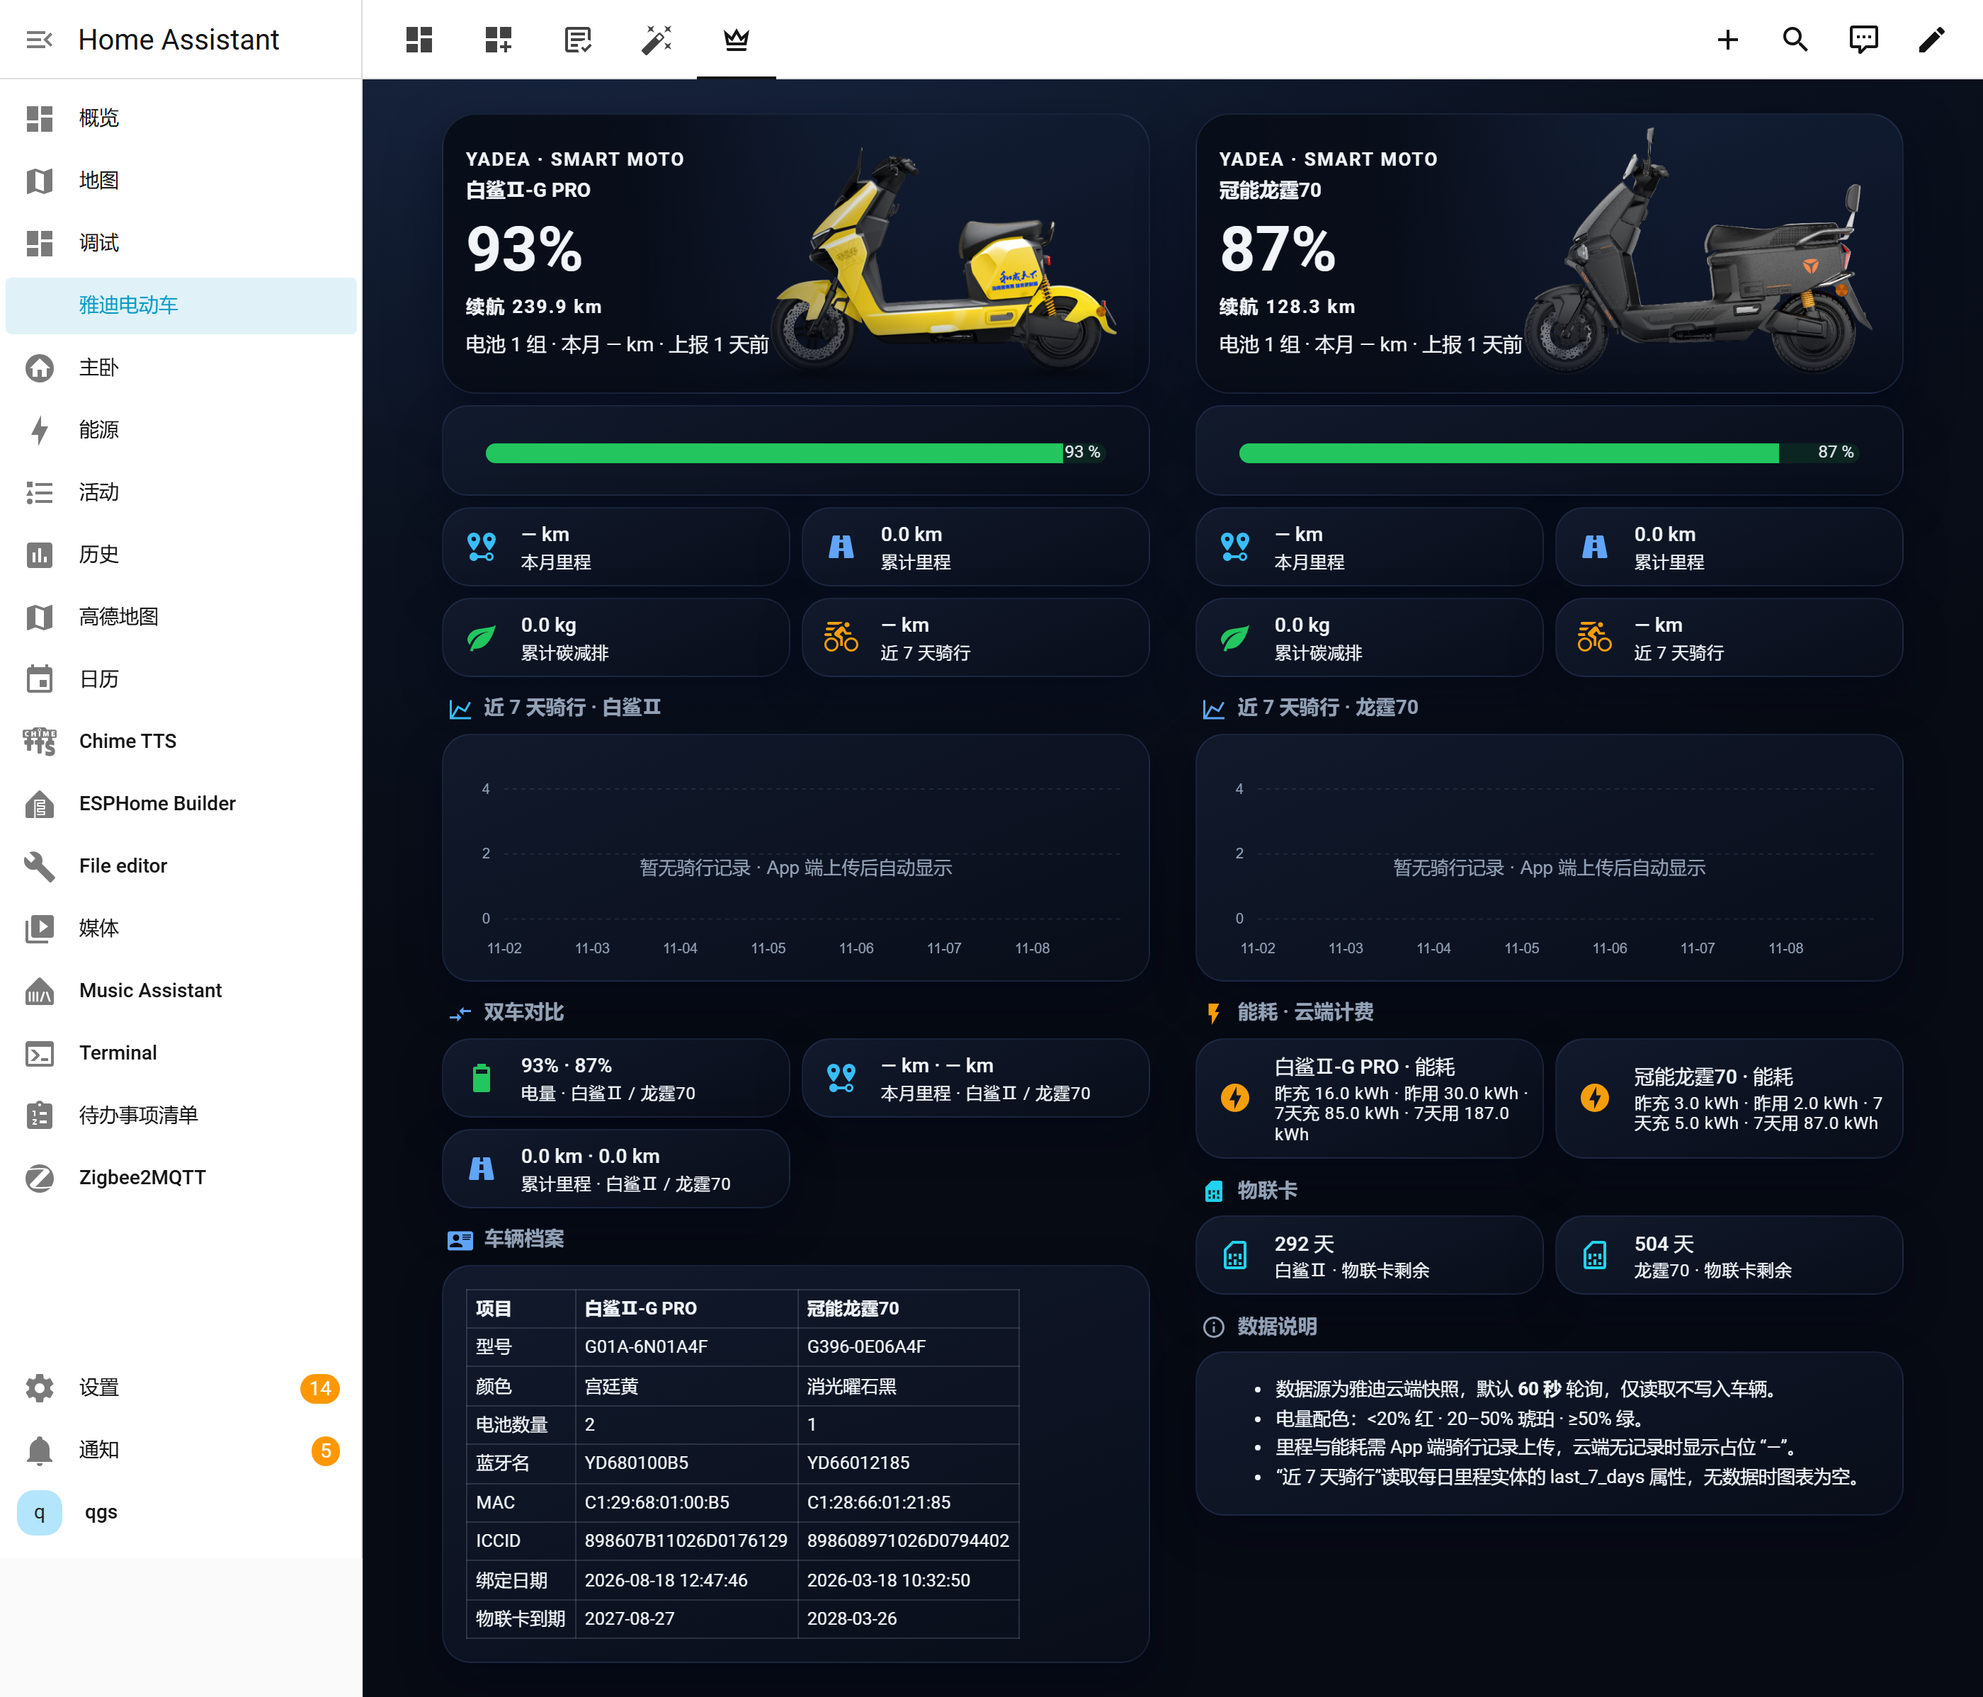
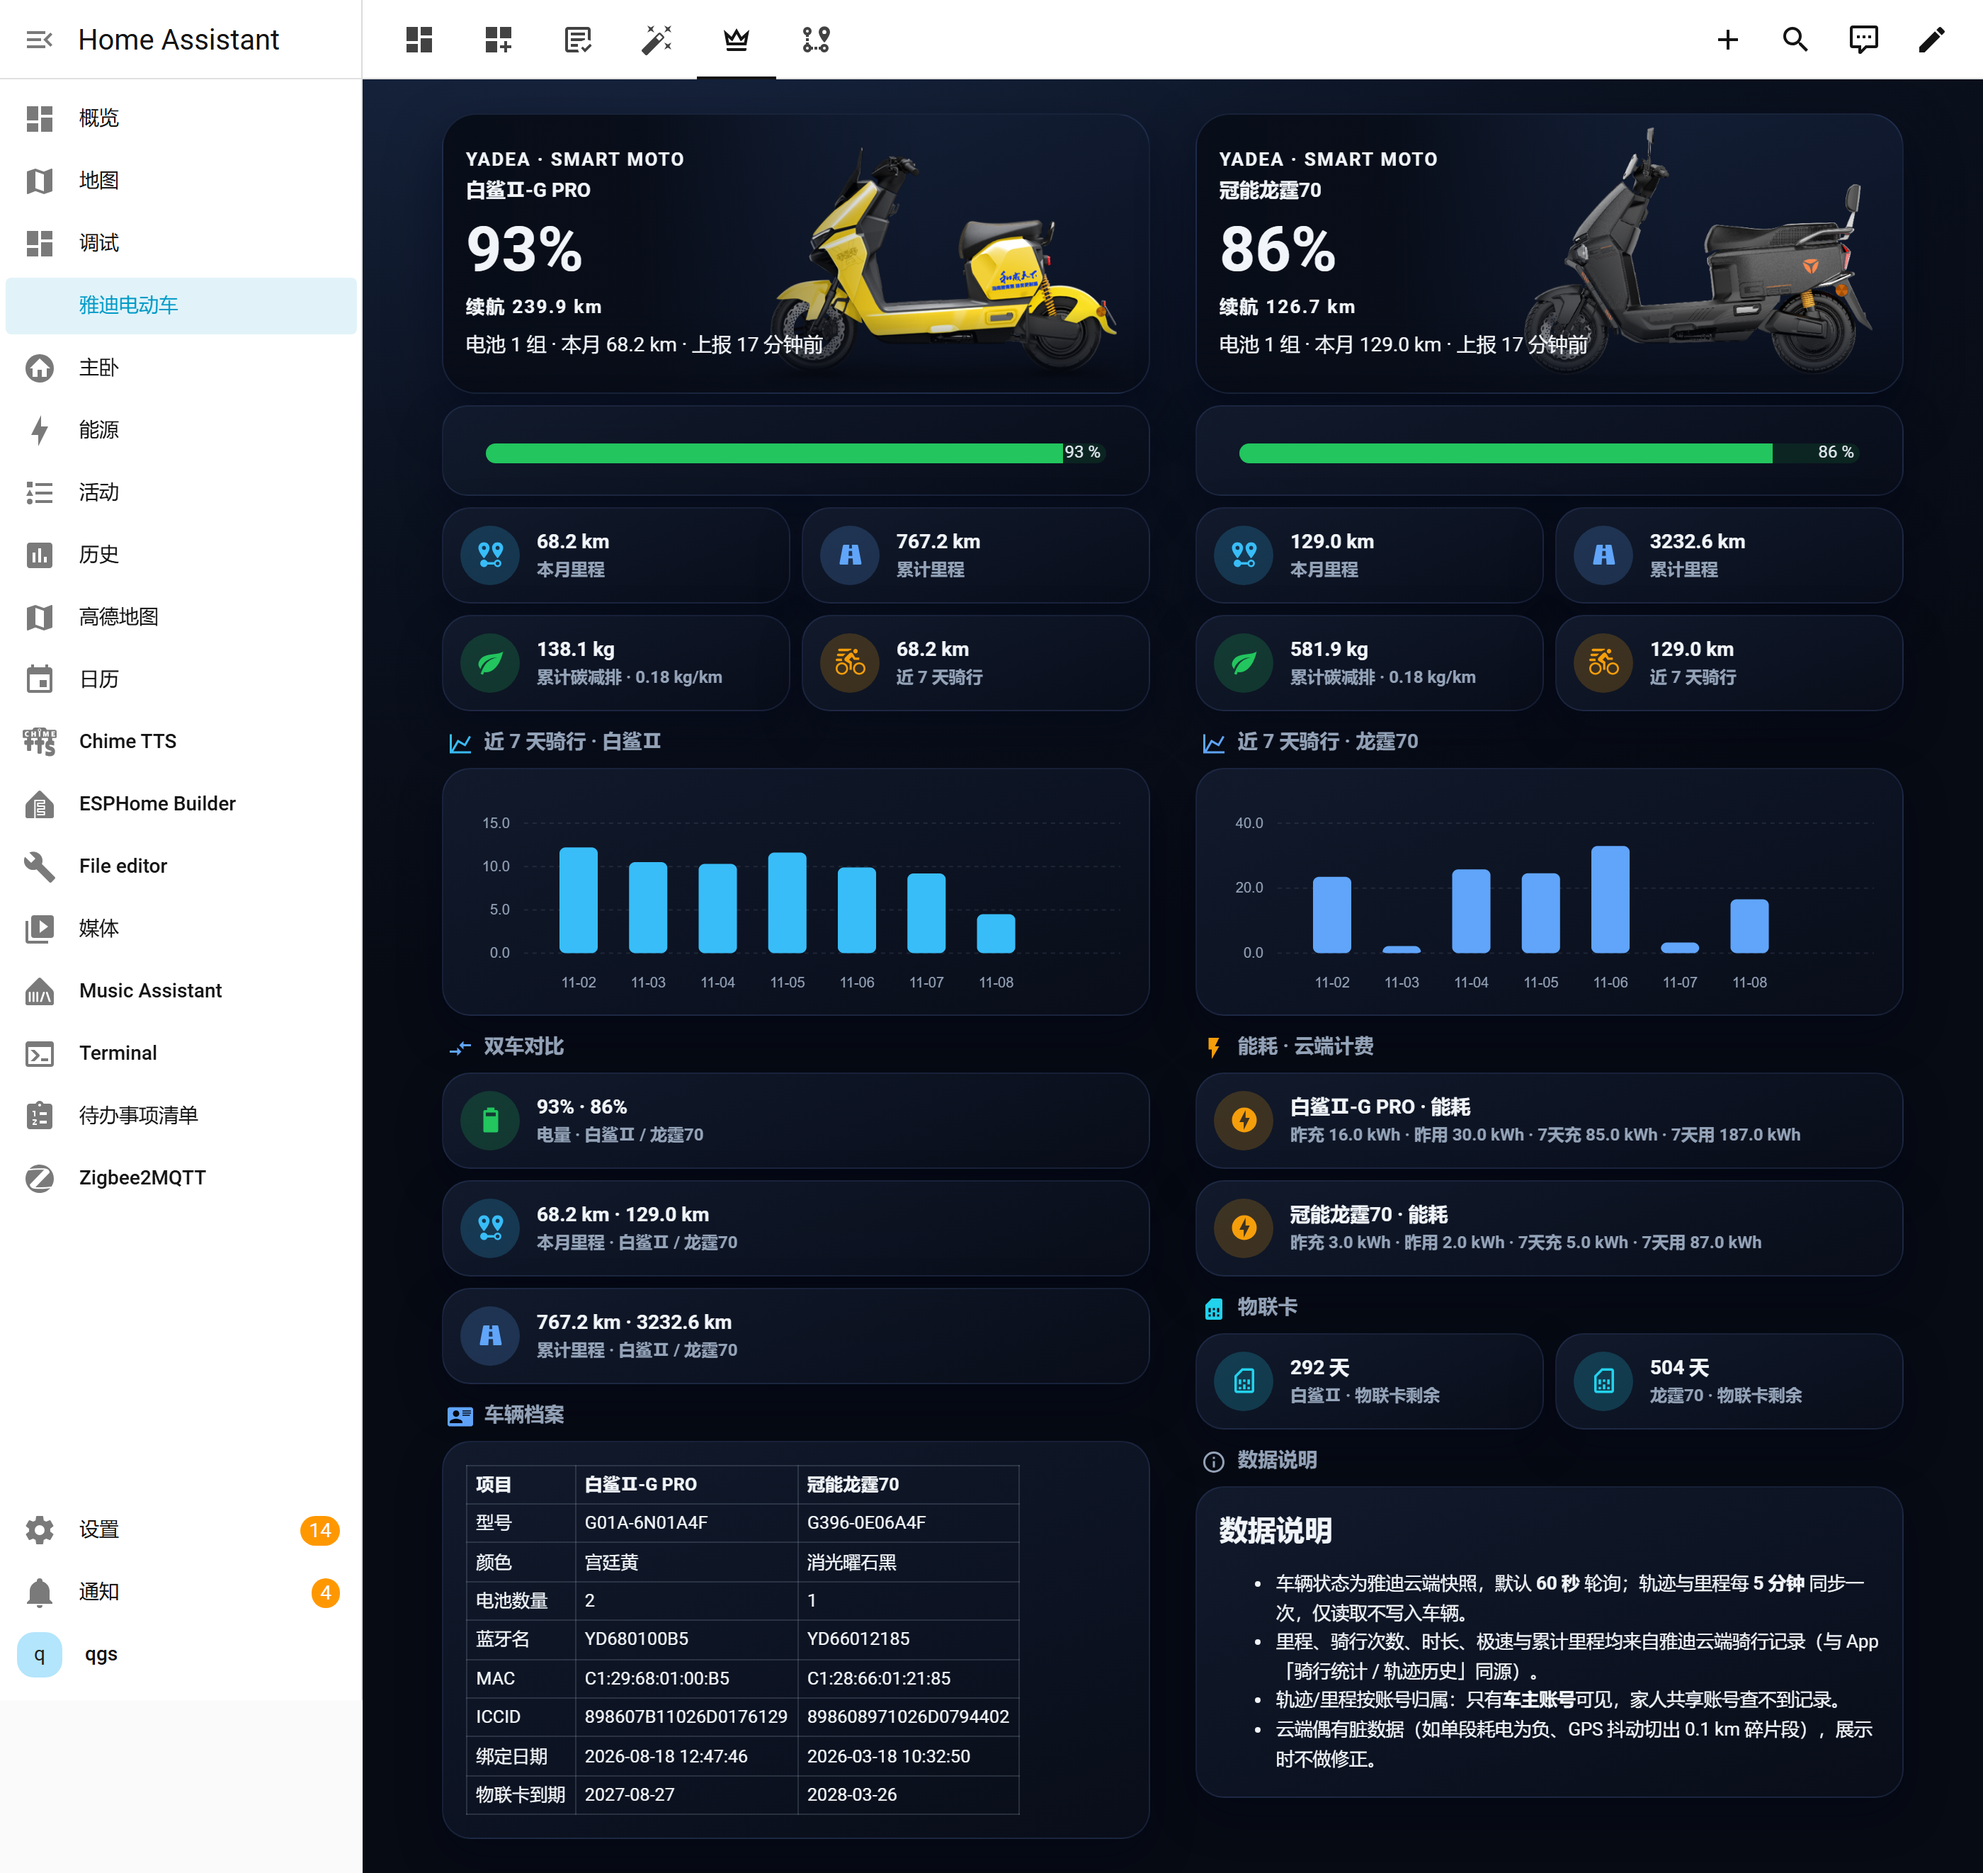
文档：刷新旗舰版实拍图（云端真实数据版），补 CHANGELOG 与轨迹视图顺序说明

diff --git a/CHANGELOG.md b/CHANGELOG.md
@@ -1,0 +1,38 @@
+# 更新日志
+
+## 2.0.0（2026-11-08）
+
+### 里程碑
+
+- **云端真实骑行数据**：轨迹/里程不再本地估算，全部来自雅迪云端骑行记录
+  （今日/本周/本月/累计里程、骑行次数与时长、最近一次骑行含起终点地址、
+  近 31 天逐日明细、累计碳减排），与 App「骑行统计/轨迹历史」同源。
+
+### 破坏性变更
+
+- 删除 v1.5.0 的本地估算里程模块（`mileage.py` 与全部 `estimated_*` 实体）
+- 里程数据只在**车主账号**（`primaryUser: true`）下可见；家人共享账号查询恒为空
+- 网关调用方式修正：参数仅放入 AES `gatewaySign` 签名、URL 不再携带 query/body
+  （旧方式导致所有 `/vehicle-base/*` 接口误报「车架号不存在」）
+
+### 新增
+
+- 状态轮询（默认 60s）与轨迹刷新（默认 300s）双档解耦，均可在选项调整
+- 集成「选项」支持直接换账号 / 调整刷新间隔 / 开关自动重登（entry 与实体 ID 不变）
+- 仪表盘新增「骑行轨迹」视图（`/yadea/track`）：双车严格两列对称布局，
+  分段明细表置于列底以保持上方卡片对齐
+- 仪表盘全部里程卡切换为云端数据源（`dashboard-example.yaml` 重生成，6 视图）
+
+### 行为说明
+
+- 雅迪为**单会话**体系：HA 登录会顶掉手机 App，反之亦然。
+  默认不自动重登，token 失效走「重新授权」流程
+
+## 1.5.0（2026-11-08）
+
+- 新增本地里程估算（`MileageTracker`，按 `remMileage` 下降量分桶）——
+  后因打通云端轨迹接口在 2.0.0 中移除
+
+## 1.4.2 及更早
+
+- 车辆状态/电池快照集成、6 视图深色仪表盘（classic/compact/glance/advanced/pro）

diff --git a/README.md b/README.md
@@ -57,7 +57,7 @@
 | 状态速览 | `glance` | 双车图文融合大图（panel 视图） | card-mod |
 | 进阶版 | `advanced` | mushroom hero + chips + mini-graph 趋势 | card-mod + mushroom + mini-graph-card |
 | 旗舰版 | `pro` | HUD 控制台：hero 大数字、近 7 天骑行柱状图、双车对比、能耗与车辆档案 | card-mod + mushroom + apexcharts-card + bar-card |
-| 骑行轨迹 | `track` | 今日里程大数字、今日分段明细表、近 14 天柱状图、最近路线 | card-mod + mushroom + apexcharts-card |
+| 骑行轨迹 | `track` | 双车对称两列：今日里程大数字、近 14 天柱状图、最近路线、今日分段明细表 | card-mod + mushroom + apexcharts-card |
 
 安装 [card-mod](https://github.com/thomasloven/lovelace-card-mod) 等前置卡片后，把
 `dashboard-example.yaml` 整段贴进「设置 → 仪表盘 → 添加仪表盘 → YAML 模式」，
